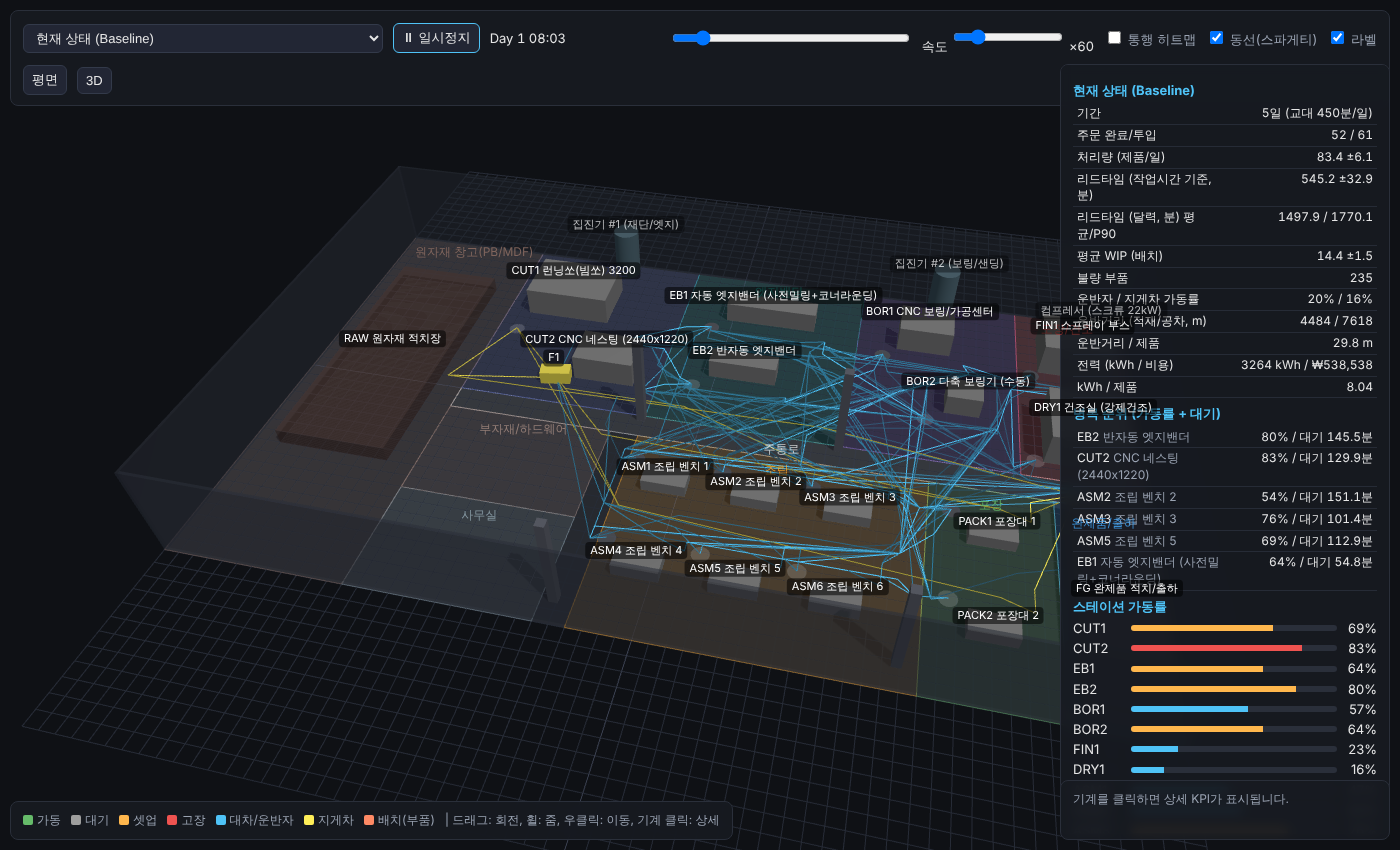
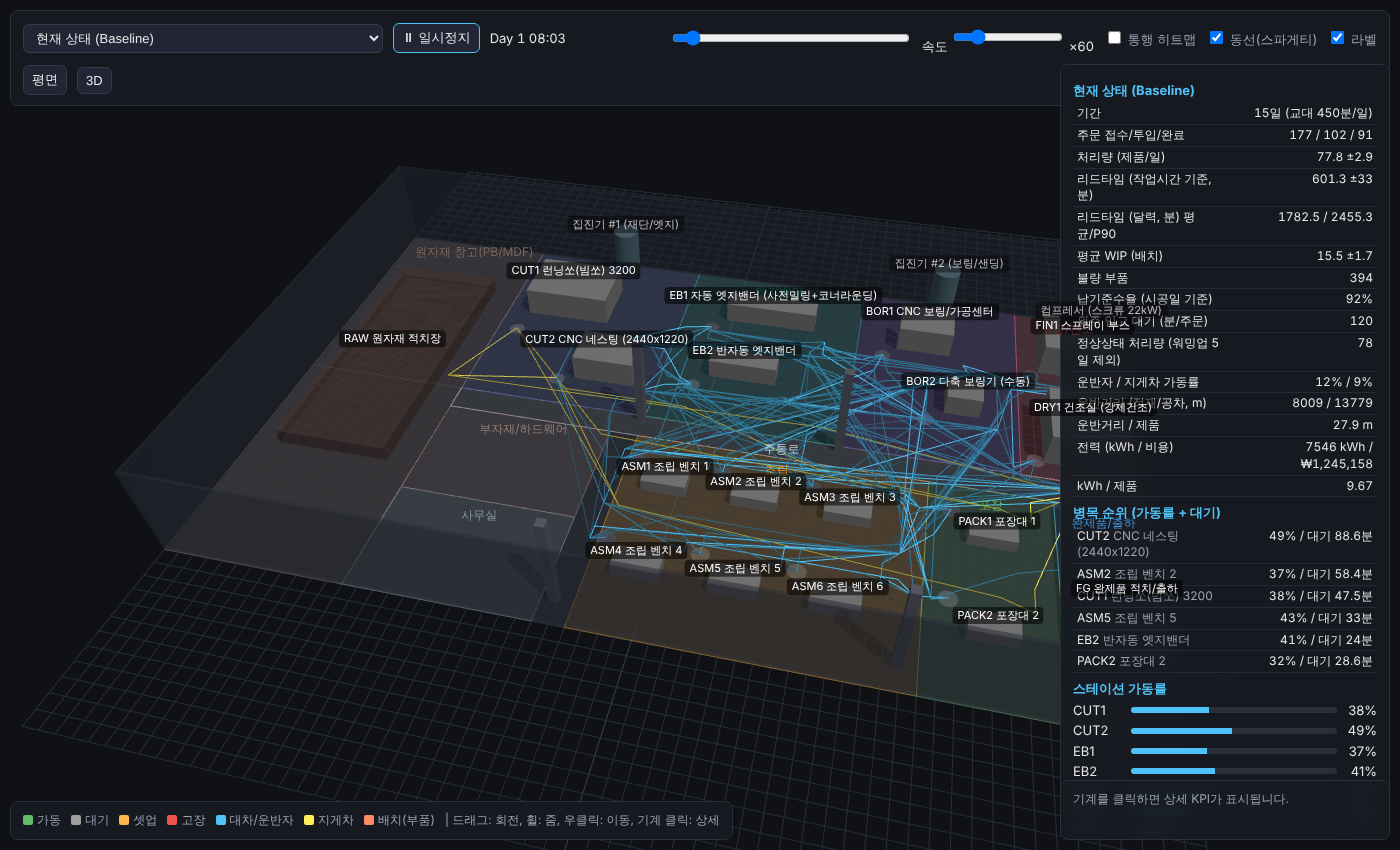
종합보고서 시나리오 서술 갱신(체제별 결론), 뷰어 KPI에 납기준수율·외주 대기·묶음 재단 표시, 스크린샷 갱신
Claude-Session: https://claude.ai/code/session_01C9gxnGPi1S4WKTrmxT1DyB

diff --git a/factory-twin/viewer/index.html b/factory-twin/viewer/index.html
@@ -234,12 +234,16 @@ function renderKpi(k) {
   if (k.scenario?.hypothesis) h += `<div style="color:var(--muted);font-size:11px;margin-bottom:6px">${k.scenario.hypothesis}</div>`;
   h += `<table>
   <tr><td>기간</td><td>${k.horizon_days}일 (교대 ${k.shift_min_per_day}분/일)</td></tr>
-  <tr><td>주문 완료/투입</td><td>${k.orders_completed} / ${k.orders_released}</td></tr>
+  <tr><td>주문 접수/투입/완료</td><td>${k.orders_received ?? '-'} / ${k.orders_released} / ${k.orders_completed}</td></tr>
   <tr><td>처리량 (제품/일)</td><td>${f(a.throughput_per_day ?? k.throughput_products_per_day)}</td></tr>
   <tr><td>리드타임 (작업시간 기준, 분)</td><td>${f(a.lead_work_min ?? k.lead_time_work_min_avg)}</td></tr>
   <tr><td>리드타임 (달력, 분) 평균/P90</td><td>${k.lead_time_min.avg} / ${k.lead_time_min.p90}</td></tr>
   <tr><td>평균 WIP (배치)</td><td>${f(a.wip ?? k.avg_wip_batches)}</td></tr>
   <tr><td>불량 부품</td><td>${k.scrap_parts}</td></tr>
+  ${k.on_time_ratio != null ? `<tr><td>납기준수율 (시공일 기준)</td><td>${(k.on_time_ratio*100).toFixed(0)}%</td></tr>` : ''}
+  ${k.outsourced_wait_avg_min != null ? `<tr><td>외주 입고 대기 (분/주문)</td><td>${k.outsourced_wait_avg_min}</td></tr>` : ''}
+  ${k.cut_batching ? `<tr><td>묶음 재단 (배치 수 / 주문·배치)</td><td>${k.cut_batching.cut_batches} / ${k.cut_batching.orders_per_cut_batch}</td></tr>` : ''}
+  <tr><td>정상상태 처리량 (워밍업 ${k.warmup_days}일 제외)</td><td>${k.throughput_steady_per_day}</td></tr>
   <tr><td>운반자 / 지게차 가동률</td><td>${(k.transport.handler_utilization*100).toFixed(0)}% / ${(k.transport.forklift_utilization*100).toFixed(0)}%</td></tr>
   <tr><td>운반거리 (적재/공차, m)</td><td>${k.transport.loaded_distance_m} / ${k.transport.empty_distance_m}</td></tr>
   <tr><td>운반거리 / 제품</td><td>${k.transport.distance_per_product_m} m</td></tr>

diff --git a/factory-twin/docs/00_종합보고서.md b/factory-twin/docs/00_종합보고서.md
@@ -20,18 +20,19 @@
 | 현장 수집 템플릿 | `capture/templates/현장수집_템플릿.xlsx` | 12 시트(기본·구역·기계대장·부대설비·사이클타임·셋업·작업자·BOM·주문·WIP·동선·전력·인터뷰) |
 | xlsx → JSON | `tools/templates_to_json.py` | 빈 칸은 가정값으로 채우고 `assumptions`에 기록 |
 | 시뮬레이션 | `sim/factory_sim.py`, `sim/pathfind.py` | 배치 흐름, 버퍼 블로킹, 셋업, 고장, 불량, 휴식/야간, 대차·지게차 A* 운반, 에너지(집진기·컴프레서 포함) |
-| 시나리오 비교 | `sim/compare.py`, `scenarios/*.json` | 5 시나리오 × 5 seed, 동일 주문 스트림, 연간 효과·회수기간 |
+| 시나리오 비교 | `sim/compare.py`, `scenarios/*.json` | 6 시나리오 × 5 seed, 동일 주문 스트림, 정상상태 처리량·납기준수율·연간 효과·회수기간 |
+| 복제 워크플로우 도구 | `tools/log_to_model.py`, `sim/validate.py`, `sim/sensitivity.py`, `tools/data_quality.py`, `capture/sensing/` | 기록→파라미터 복원·데이터 충분성 진단, 검증 지표 대조, 민감도 스크리닝, 출처 스코어카드, 2주 센싱 키트 코드 |
 | 3D 트윈 뷰어 | `viewer/index.html` | 3D/평면, 재생·스크럽·배속, 기계 상태 색, 대기열 스택, 히트맵, 스파게티, KPI·병목 순위, 기계 클릭 상세 |
 
 실행: `./run.sh` 후 http://localhost:8000/viewer/ (스크린샷: `docs/viewer_3d.png`, `docs/viewer_top_heatmap.png`).
 
 ### 샘플 공장 시나리오 결과 (가상 데이터, 5 seed 평균) — `sim/out/comparison.md`
-수요를 설비능력 이상(13 주문/일)으로 둔 베이스라인에서 병목은 반자동 엣지밴더(가동률 85%)였다. 시나리오별로:
-- 재단 CNC 1대 추가(8,500만 원): 처리량 +2%, 리드타임 −5%, 병목은 엣지밴더로 유지 → **투자 대상이 틀렸음을 사전에 보여주는 예**.
-- 배치 크기 절반(투자 0): 처리량 +14%, 리드타임 −26%, 대신 운반거리/제품 +89%, WIP(배치 수) 증가 → 운반 인력·대차가 다음 제약.
-- SMED 셋업 단축(300만 원): 리드타임 −6%, 회수 0.4년 → **가장 먼저 할 일**.
-- 엣지밴더 자동기 교체 + CNC 추가(1.45억): 리드타임 −12%, WIP −10%, 병목이 조립으로 이동.
-숫자 자체는 가상이지만, 보고서가 **"어떤 기계를 사면 병목이 어디로 옮겨가는지"**와 **회수기간**까지 한 표로 내놓는 형식이 그대로 제안서가 된다.
+샘플은 한국 주문가구 공장 실태(리서치 10)를 반영해 **시공일 역산(D-2) 투입, 도어 외주 병렬 경로(3~9일, 15% 지연), 현장 단위 배치**로 돌린다. 이 체제에서는 수요가 고정이라 처리량은 거의 변하지 않고 **납기준수율·리드타임·WIP**가 비교 축이 된다(베이스라인 납기준수율 92%, 재단 CNC 가동률 49%).
+- 재단 CNC 추가(8,500만 원): 가동률만 49→38%로 떨어지고 납기·리드타임 개선 없음 → **수요 대비 여유가 있는 공장에선 설비 투자가 답이 아님**을 사전에 보여준다.
+- 배치 크기 절반(투자 0): 리드타임 −25%, 납기준수율 92→95%, 대신 운반거리/제품 +100%, WIP(배치 수) +49% → 운반 인력·대차가 다음 제약.
+- 색상×두께 묶음 재단(S6): 이 샘플에선 리드타임 +17%, 납기준수율 84%로 **악화**. 원장 교체 셋업 6분을 아끼는 이득보다 60분 묶음 대기와 분류 시간이 크기 때문. 셋업이 15~30분인 공장이면 결과가 뒤집힐 수 있다 → 바로 이것이 방문에서 "원장 교체 시간"과 "묶음 규칙"을 정확히 재야 하는 이유다.
+- SMED·레이아웃 변경: 가동률 49%인 체제에선 효과 없음. 수요가 설비능력을 넘는 성수기 체제(이전 버전 샘플: 13주문/일 즉시 투입, 가동률 85%)에서는 SMED가 회수 0.4년으로 1순위였다. **같은 공장도 체제에 따라 답이 다르다** → 성수기·비수기 두 체제를 모두 검증해야 한다.
+숫자 자체는 가상이지만, 보고서가 "어떤 투자가 어느 체제에서 효과가 있고 병목이 어디로 옮겨가는지"와 회수기간을 한 표로 내놓는 형식이 그대로 제안서가 된다.
 
 ## 3. 권장 기술 스택 (리서치 1·4·6 종합)
 
